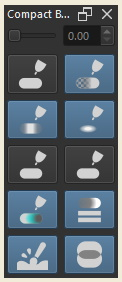
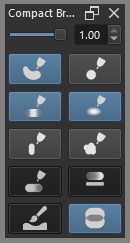
readme edit

diff --git a/README.md b/README.md
@@ -24,14 +24,14 @@ Interface Adjust Depending on the ratio of height and width of the button
 | Icon On | Icon Off | Abbreviation | Description | 
 | ------- | -------- | ------------ | ----------- |
 |         |          | Fade         | Brush Fade Slider |
-| ![Interface](./screenshots/icons/ico-size.png)    | ![Interface](./screenshots/icons/ico-pr-off.png)  | Sze       | Size Pen Pressure Toggle |
-| ![Interface](./screenshots/icons/ico-opc.png)     | ![Interface](./screenshots/icons/ico-pr-off.png)  | Opc       | Opacity Pen Pressure Toggle |
-| ![Interface](./screenshots/icons/ico-flw.png)     | ![Interface](./screenshots/icons/ico-pr-off.png)  | Flw       | Flow Pen Pressure Toggle |
-| ![Interface](./screenshots/icons/ico-sft.png)     | ![Interface](./screenshots/icons/ico-pr-off.png)  | Sft       | Softness Pen Pressure Toggle |
-| ![Interface](./screenshots/icons/ico-rot.png)     | ![Interface](./screenshots/icons/ico-pr-off.png)  | Rot       | Rotation Pen Pressure Toggle|
-| ![Interface](./screenshots/icons/ico-sct.png)     | ![Interface](./screenshots/icons/ico-pr-off.png)  | Sca       | Scatter Pen Pressure Toggle |
-| ![Interface](./screenshots/icons/ico-col.png)     | ![Interface](./screenshots/icons/ico-pr-off.png)  | Col       | Color Rate   |
-| ![Interface](./screenshots/icons/ico-ovl.png)     | ![Interface](./screenshots/icons/ico-ovl-off.png) | Ovl       | Overlay Mode - Smudge Brush Engine Only|
+| ![Interface](./screenshots/icons/ico-size-on.png)    | ![Interface](./screenshots/icons/ico-size-off.png)  | Sze       | Size Pen Pressure Toggle |
+| ![Interface](./screenshots/icons/ico-opc-on.png)     | ![Interface](./screenshots/icons/ico-opc-off.png)  | Opc       | Opacity Pen Pressure Toggle |
+| ![Interface](./screenshots/icons/ico-flw-on.png)     | ![Interface](./screenshots/icons/ico-flw-off.png)  | Flw       | Flow Pen Pressure Toggle |
+| ![Interface](./screenshots/icons/ico-sft-on.png)     | ![Interface](./screenshots/icons/ico-sft-off.png)  | Sft       | Softness Pen Pressure Toggle |
+| ![Interface](./screenshots/icons/ico-rot-on.png)     | ![Interface](./screenshots/icons/ico-rot-off.png)  | Rot       | Rotation Pen Pressure Toggle|
+| ![Interface](./screenshots/icons/ico-sct-on.png)     | ![Interface](./screenshots/icons/ico-sct-off.png)  | Sca       | Scatter Pen Pressure Toggle |
+| ![Interface](./screenshots/icons/ico-col-on.png)     | ![Interface](./screenshots/icons/ico-col-off.png)  | Col       | Color Rate   |
+| ![Interface](./screenshots/icons/ico-ovl-on.png)     | ![Interface](./screenshots/icons/ico-ovl-off.png) | Ovl       | Overlay Mode - Smudge Brush Engine Only|
 | ![Interface](./screenshots/icons/ico-sok-on.png)  | ![Interface](./screenshots/icons/ico-sok-off.png) | Sok       | Soak Ink - Bristle Engine Only|
 | ![Interface](./screenshots/icons/ico-ptm-wash.png)| ![Interface](./screenshots/icons/ico-ptm-bld.png) | PtM       | Painting Mode : On -> Wash , Off -> Build |
  
@@ -39,8 +39,8 @@ The plugin loads the state of the pressure settings once a brush is selected;
 -- if its highlighted blue then the pressure setting is active
 -- if its not highlighted the pressure setting is inactive. 
 
-*Control Toggles*
-![Use Pressure Curve Toggles](./screenshots/ui-brushtoggler.jpeg)
+*Control Toggles and Fade Slider*
+![Use Pressure Curve Toggles](./screenshots/ui-brushtoggler1.jpeg)
 
 *Paint Mode*
 ![Overlay Mode](./screenshots/ui-brushtoggler4.jpeg)
@@ -51,10 +51,7 @@ The plugin loads the state of the pressure settings once a brush is selected;
 *Soak Ink for Bristle Brush*
 ![Overlay Mode](./screenshots/ui-brushtoggler3.jpeg)
 
-
-*Brush Fade Slider* 
-![Brush Fade Slider](./screenshots/ui-brushfade.jpeg)
-
+ 
 
 ### Functionalities
 
@@ -140,7 +137,7 @@ if not enable it by going to Settings -> Configure Krita -> **Python Plugin Mana
 
 ### Release Log
 
-2024-02-28 : Version 1.0.0 
+2024-02-28 : Version 0.1.6 
     Added new icons
     Added shortcuts
 
